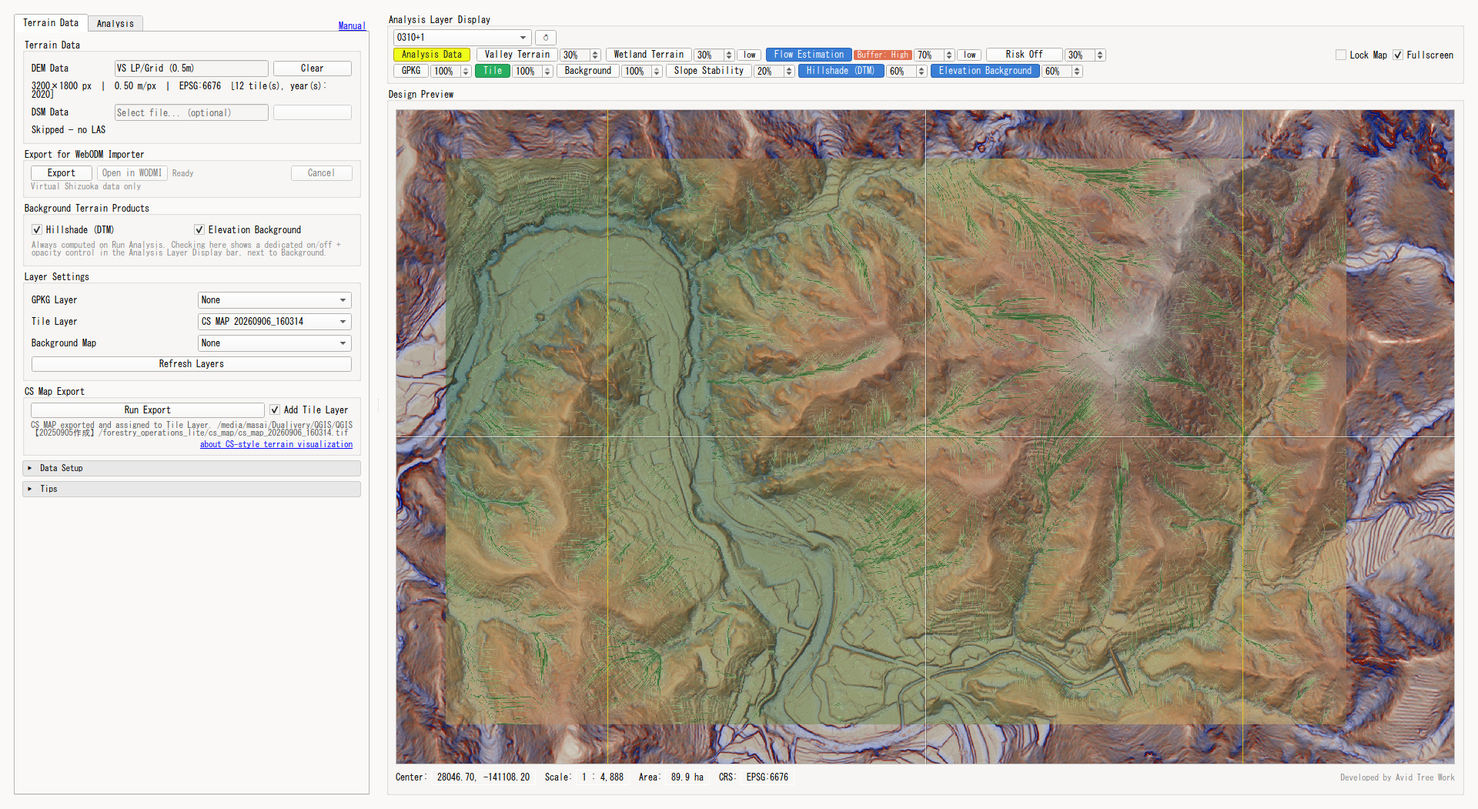
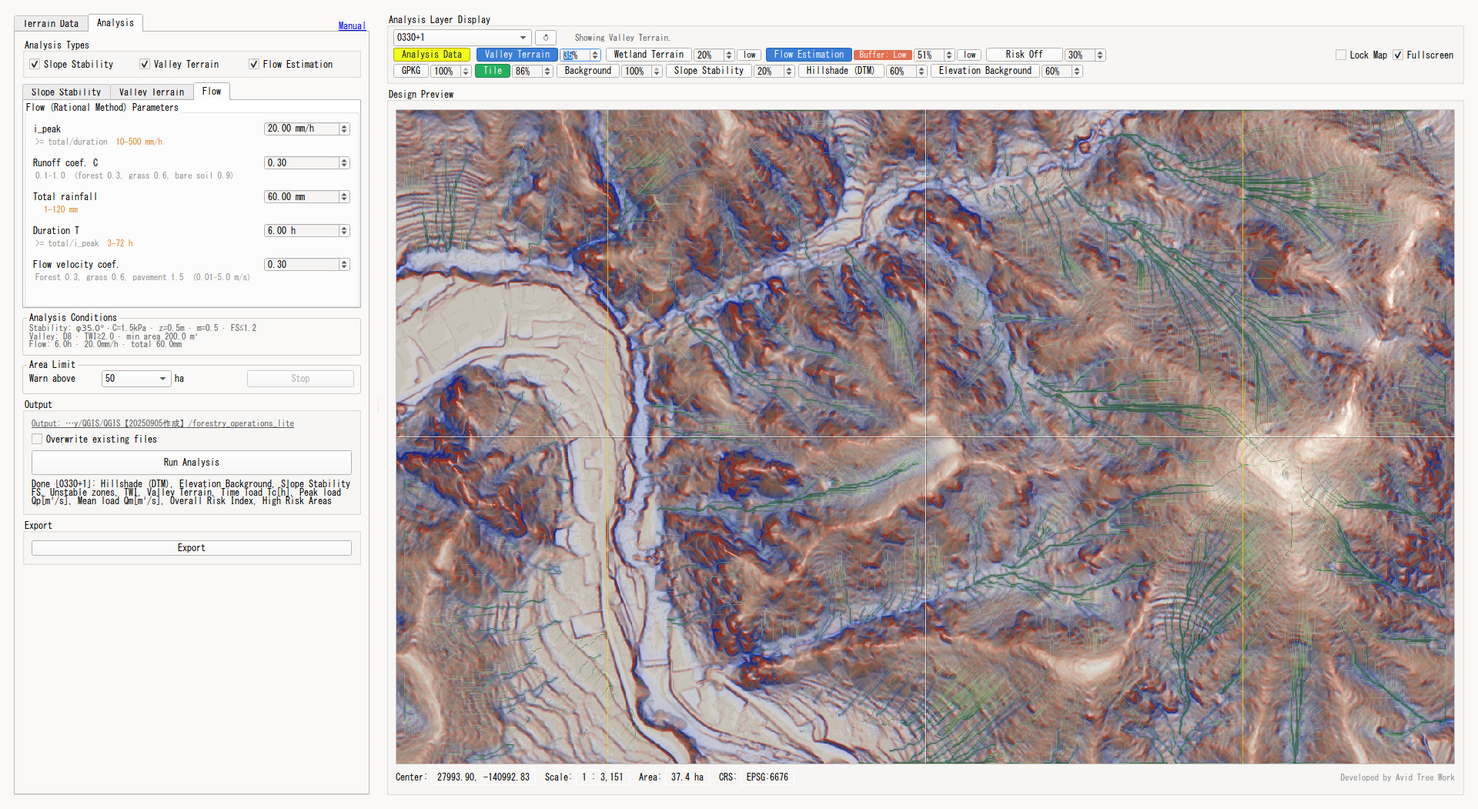
FOL 1.2.1: CS Map location-based naming, embedded metadata, manual updates
- CS Map Export: replace fixed/timestamped output naming with a filename
  derived from the export's rounded center coordinate and area (hashed),
  so exports of different locations never collide or overwrite each other
- Add "Overwrite Same Location" checkbox: controls whether re-exporting the
  same area replaces the previous file or is kept as a separate +N copy
- Rename "Add Tile Layer" checkbox to "Set As Layer"; QGIS layer name now
  matches the actual output file name instead of a synthesized label
- Stop disabling the whole CS Map Export group box while no DEM is loaded,
  so the "about CS-style terrain visualization" link stays usable
- Embed provenance, data-quality, and attribution metadata (GDAL tags) into
  the output GeoTIFF
- Remove unprompted CSMapMaker references from the about dialog and
  cs_map.py docstring
- Update README / FOL.html CS Map Export sections and example captions
  (EN/JA) to match; replace the CS Map example screenshot

diff --git a/data/FOL.html b/data/FOL.html
@@ -403,7 +403,7 @@ USDA NRCS National Engineering Handbook, Part 630.</p>
 <h2>Feature Descriptions</h2>
 
 <h3>CS MAP Export</h3>
-<p><strong>Run Export</strong> under <strong>Terrain Data &gt; CS Map Export</strong> creates a CS-style terrain visualization from the selected DEM. Local DEM files are exported as a whole raster; fetched sources such as VS LP/Grid, GSI DEM, and Terrarium use the currently fetched DEM raster. When <strong>Add Tile Layer</strong> is checked, the exported raster is added to QGIS and selected directly in <strong>Layer Settings &gt; Tile Layer</strong>.</p>
+<p><strong>Run Export</strong> under <strong>Terrain Data &gt; CS Map Export</strong> creates a CS-style terrain visualization from the selected DEM. Local DEM files are exported as a whole raster; fetched sources such as VS LP/Grid, GSI DEM, and Terrarium use the currently fetched DEM raster. The output file name is derived from the exported area's center coordinate and size, so exports of different areas never collide or overwrite one another. When <strong>Overwrite Same Location</strong> is checked (default), re-exporting the same area replaces the previous file for that location; unchecked, each re-export of that same area is kept as a separate file instead. The export is always added to QGIS; when <strong>Set As Layer</strong> is checked, it is also set as the current <strong>Layer Settings &gt; Tile Layer</strong> selection.</p>
 <div class="note">
   <strong>Input data:</strong> a CS-style map only resolves micro-relief that is genuinely present in the DEM, and it assumes a LiDAR-grade ground surface. A photogrammetric DTM (e.g. from WebODM / drone imagery) has low ground-surface accuracy: under forest canopy the ground is largely interpolated between sparse points, so fine structure in the CS map can be an interpolation artifact rather than real terrain. Prefer LiDAR, or open-terrain / leaf-off captures; treat forested photogrammetric results as indicative only.
 </div>
@@ -411,8 +411,8 @@ USDA NRCS National Engineering Handbook, Part 630.</p>
   <strong>Note:</strong> The color balance is tuned for Forestry Operations Lite so analysis layers such as flow, wetness, and terrain features remain easy to interpret.
 </div>
 <div style="margin-top:14px;">
-  <button class="image-zoom" type="button" data-group="cs-map" data-src="cs_style_map_example.jpg" data-caption="CS-style terrain from CS Map Export, assigned to Layer Settings &gt; Tile Layer, with a Flow Estimation layer overlaid in the preview."><img src="cs_style_map_example.jpg" alt="CS-style terrain map with a flow estimation overlay in Forestry Operations Lite"></button>
-  <p style="color:#666; font-size:0.86em; margin:6px 0 0;">Example: CS-style terrain output set as the Tile Layer, with Flow Estimation overlaid. The tuned colour balance keeps the overlay readable against the terrain.</p>
+  <button class="image-zoom" type="button" data-group="cs-map" data-src="cs_style_map_example.jpg" data-caption="CS-style terrain from CS Map Export, set as Layer Settings &gt; Tile Layer, with Valley Terrain and Flow Estimation layers overlaid in the preview."><img src="cs_style_map_example.jpg" alt="CS-style terrain map with Valley Terrain and Flow Estimation overlaid in Forestry Operations Lite"></button>
+  <p style="color:#666; font-size:0.86em; margin:6px 0 0;">Example: CS-style terrain output set as the Tile Layer, with Valley Terrain and Flow Estimation overlaid. The tuned colour balance keeps the overlay readable against the terrain.</p>
 </div>
 <div class="note">
   CS立体図 is a terrain visualization method proposed by Nagano Prefecture Forestry Research Center. The method is described as open, but exported maps also follow the license and attribution requirements of the input DEM.
@@ -775,7 +775,7 @@ USDA NRCS National Engineering Handbook, Part 630。</p>
 <h2>機能説明</h2>
 
 <h3>CS MAP Export</h3>
-<p><strong>Terrain Data &gt; CS Map Export</strong> の <strong>Run Export</strong> で、選択中のDEMからCS系の地形表現ラスタを作成します。ローカルDEMファイルはラスタ全体、VS LP/Grid・GSI DEM・Terrarium などの取得型ソースは現在取得済みのDEMラスタ全体を対象にします。<strong>Add Tile Layer</strong> をオンにすると、出力したラスタをQGISに追加し、<strong>Layer Settings &gt; Tile Layer</strong> に直接設定します。</p>
+<p><strong>Terrain Data &gt; CS Map Export</strong> の <strong>Run Export</strong> で、選択中のDEMからCS系の地形表現ラスタを作成します。ローカルDEMファイルはラスタ全体、VS LP/Grid・GSI DEM・Terrarium などの取得型ソースは現在取得済みのDEMラスタ全体を対象にします。出力ファイル名は書き出し範囲の中心座標と面積から決まるため、別の範囲を書き出しても互いに上書きされることはありません。<strong>Overwrite Same Location</strong>（既定でオン）がオンの場合、同じ範囲を出し直すと該当ファイルを上書きします。オフの場合は同じ範囲の再出力も別ファイルとして残ります。出力は常にQGISへ追加され、<strong>Set As Layer</strong> をオンにすると <strong>Layer Settings &gt; Tile Layer</strong> にも直接設定します。</p>
 <div class="note">
   <strong>入力データについて:</strong> CS系表現図は DEM に実在する微地形しか描けず、LiDAR 級の地表面を前提とします。写真測量由来の DTM（WebODM／ドローン空撮など）は地表面精度が低く、特に林冠下では疎な地表点の間を補間しているだけなので、CS図に出る細かい構造は実地形ではなく補間アーティファクトのことがあります。LiDAR、または開放地・落葉期・十分に管理された撮影を優先し、林内の写真測量結果は参考程度に扱ってください。
 </div>
@@ -783,8 +783,8 @@ USDA NRCS National Engineering Handbook, Part 630。</p>
   <strong>注意:</strong> 本プラグインでは、流量・湿潤・地形特徴などの解析データを判断しやすいよう、CS系地形表現の色味を調整しています。
 </div>
 <div style="margin-top:14px;">
-  <button class="image-zoom" type="button" data-group="cs-map" data-src="cs_style_map_example.jpg" data-caption="CS Map Export で出力したCS系地形を Layer Settings &gt; Tile Layer に設定し、プレビューで Flow Estimation レイヤーを重ねた表示例。"><img src="cs_style_map_example.jpg" alt="Forestry Operations Lite でCS系地形に流量解析を重ねた表示例"></button>
-  <p style="color:#666; font-size:0.86em; margin:6px 0 0;">表示例：CS系地形の出力を Tile Layer に設定し、Flow Estimation を重ねた状態。調整済みの色味により、地形の上でも重ねた解析レイヤーが読み取りやすい。</p>
+  <button class="image-zoom" type="button" data-group="cs-map" data-src="cs_style_map_example.jpg" data-caption="CS Map Export で出力したCS系地形を Layer Settings &gt; Tile Layer に設定し、プレビューで Valley TerrainとFlow Estimation レイヤーを重ねた表示例。"><img src="cs_style_map_example.jpg" alt="Forestry Operations Lite でCS系地形に流量解析を重ねた表示例"></button>
+  <p style="color:#666; font-size:0.86em; margin:6px 0 0;">表示例：CS系地形の出力を Tile Layer に設定し、Valley Terrain、Flow Estimation を重ねた状態。調整済みの色味により、地形の上でも重ねた解析レイヤーが読み取りやすい。</p>
 </div>
 <div class="note">
   CS立体図は長野県林業総合センターが考案した地形表現図法です。図法自体はオープンと説明されていますが、出力した地図の利用条件は入力DEMのライセンス・出典表示条件にも従います。

diff --git a/forestry_operations_lite_dockwidget.py b/forestry_operations_lite_dockwidget.py
@@ -1521,26 +1521,29 @@ class ForestryOperationsLiteDockWidget(QtWidgets.QWidget, FORM_CLASS):
         cs_export_layout = QtWidgets.QVBoxLayout(self.grpCsMapExport)
         cs_export_layout.setContentsMargins(8, 4, 8, 6)
         cs_export_layout.setSpacing(4)
-        cs_row = QtWidgets.QHBoxLayout()
-        cs_row.setSpacing(6)
         self.btnCsMapExport = QtWidgets.QPushButton("Run Export")
         self.btnCsMapExport.setToolTip("Load DEM to enable CS MAP export")
-        self.chkCsMapAddTile = QtWidgets.QCheckBox("Add Tile Layer")
+        cs_export_layout.addWidget(self.btnCsMapExport)
+        cs_opt_row = QtWidgets.QHBoxLayout()
+        cs_opt_row.setSpacing(6)
+        self.chkCsMapAddTile = QtWidgets.QCheckBox("Set As Layer")
         self.chkCsMapAddTile.setChecked(True)
         self.chkCsMapAddTile.setToolTip(
-            "Add the exported CS MAP to QGIS and select it in Layer Settings > Tile Layer"
+            "Replace the current Layer Settings > Tile Layer selection with "
+            "this export and show it immediately. The export is added to "
+            "QGIS either way; this only controls the Tile Layer slot."
         )
-        self.btnCsMapExport.setSizePolicy(
-            QtWidgets.QSizePolicy.Policy.Expanding,
-            QtWidgets.QSizePolicy.Policy.Fixed,
+        self.chkCsMapOverwriteSameLoc = QtWidgets.QCheckBox("Overwrite Same Location")
+        self.chkCsMapOverwriteSameLoc.setChecked(True)
+        self.chkCsMapOverwriteSameLoc.setToolTip(
+            "Re-exporting the same area/extent replaces the previous CS MAP "
+            "file for that location. Unchecked, each re-export of that same "
+            "location is kept as a separate file instead. Exports covering "
+            "a different area are never affected either way."
         )
-        self.chkCsMapAddTile.setSizePolicy(
-            QtWidgets.QSizePolicy.Policy.Expanding,
-            QtWidgets.QSizePolicy.Policy.Fixed,
-        )
-        cs_row.addWidget(self.btnCsMapExport, 4)
-        cs_row.addWidget(self.chkCsMapAddTile, 1)
-        cs_export_layout.addLayout(cs_row)
+        cs_opt_row.addWidget(self.chkCsMapAddTile)
+        cs_opt_row.addWidget(self.chkCsMapOverwriteSameLoc)
+        cs_export_layout.addLayout(cs_opt_row)
         self.progressCsMapExport = QtWidgets.QProgressBar()
         self.progressCsMapExport.setRange(0, 0)
         self.progressCsMapExport.setVisible(False)
@@ -5643,9 +5646,12 @@ class ForestryOperationsLiteDockWidget(QtWidgets.QWidget, FORM_CLASS):
         has_dem = self._has_cs_map_dem()
         busy = bool(getattr(self, "_cs_map_exporting", False))
         can_export = has_dem and not busy
-        self.grpCsMapExport.setEnabled(has_dem or busy)
+        # grpCsMapExport 自体は無効化しない: グループを無効化すると
+        # lblCsMapAbout の「about」リンクまで操作不能になり、DEM未読込時に
+        # 説明を読めなくなる。DEMを要する個別コントロールだけを無効化する。
         self.btnCsMapExport.setEnabled(can_export)
         self.chkCsMapAddTile.setEnabled(can_export)
+        self.chkCsMapOverwriteSameLoc.setEnabled(can_export)
         if busy:
             self.btnCsMapExport.setToolTip("CS MAP export is running")
             return
@@ -5666,9 +5672,7 @@ class ForestryOperationsLiteDockWidget(QtWidgets.QWidget, FORM_CLASS):
             "CS topographic visualization was proposed by the Nagano Prefecture\n"
             "Forestry Research Center.\n\n"
             "This feature is an independent FOL implementation inspired by\n"
-            "that concept.\n\n"
-            "It does not use CSMapMaker code, configuration files,\n"
-            "color tables, or image tiles.",
+            "that concept.",
         )
 
     def _on_vs_export(self):
@@ -6086,8 +6090,101 @@ class ForestryOperationsLiteDockWidget(QtWidgets.QWidget, FORM_CLASS):
             loader = _resample_dem(loader, _RESAMPLE_TARGET)
         return loader
 
+    @staticmethod
+    def _cs_map_center_and_area(dem):
+        """DEM範囲の中心座標(WGS84, 丸めなし)と面積(ha)を返す。"""
+        rows, cols = dem.data.shape
+        xmin = dem.gt[0]
+        xmax = dem.gt[0] + dem.gt[1] * cols
+        ymax = dem.gt[3]
+        ymin = dem.gt[3] + dem.gt[5] * rows
+        cx, cy = (xmin + xmax) / 2.0, (ymin + ymax) / 2.0
+
+        lon, lat = cx, cy
+        try:
+            src_crs = QgsCoordinateReferenceSystem()
+            src_crs.createFromWkt(dem.crs_wkt)
+            wgs84 = QgsCoordinateReferenceSystem("EPSG:4326")
+            if src_crs.isValid() and src_crs != wgs84:
+                xf = QgsCoordinateTransform(src_crs, wgs84, QgsProject.instance())
+                pt = xf.transform(QgsPointXY(cx, cy))
+                lon, lat = pt.x(), pt.y()
+        except Exception:  # nosec B110
+            pass
+
+        area_ha = rows * cols * (dem.cell_size ** 2) / 10000.0
+        return lat, lon, area_ha
+
+    def _cs_map_location_key(self, lat, lon, area_ha):
+        """中心座標(WGS84)と面積(ha)を丸めてハッシュ化した識別子(8桁16進)を返す。
+        同じ場所への再エクスポートは同じキーになり、別の場所とは衝突しない。"""
+        lat_r = round(lat / 0.0005) * 0.0005
+        lon_r = round(lon / 0.0005) * 0.0005
+        area_r = self._round_sig(area_ha, 2)
+        key = f"{lat_r:.4f}_{lon_r:.4f}_{area_r:g}"
+        import hashlib
+        return hashlib.sha256(key.encode("utf-8")).hexdigest()[:8]
+
+    @staticmethod
+    def _round_sig(value, sig=2):
+        """有効数字sig桁に丸める（0以下はそのまま0.0を返す）。"""
+        if value <= 0:
+            return 0.0
+        from math import floor, log10
+        d = sig - int(floor(log10(abs(value)))) - 1
+        return round(value, max(d, 0))
+
+    @staticmethod
+    def _plugin_version():
+        import configparser
+        cfg = configparser.ConfigParser()
+        cfg.read(os.path.join(os.path.dirname(__file__), "metadata.txt"))
+        return cfg.get("general", "version", fallback="")
+
+    def _write_cs_map_metadata(self, path, dem, lat, lon, area_ha):
+        """成果物としてのCS MAP GeoTIFFに来歴・データ品質・帰属のメタデータを埋め込む。
+        失敗してもラスタ本体は既に書き出し済みのため、ここでは無視して続行する。"""
+        try:
+            from osgeo import gdal
+            from datetime import datetime
+
+            source_path = (getattr(self, "_cs_map_dem_path", "")
+                            or getattr(self, "_dem_path", "") or "")
+            tags = {
+                "GENERATED_AT": datetime.now().astimezone().isoformat(timespec="seconds"),
+                "PLUGIN": f"Forestry Operations Lite {self._plugin_version()}",
+                "DEM_SOURCE_PATH": source_path,
+                "DEM_CELL_SIZE_M": f"{dem.cell_size:.2f}",
+                "CENTER_LAT": f"{lat:.6f}",
+                "CENTER_LON": f"{lon:.6f}",
+                "AREA_HA": f"{area_ha:.2f}",
+                "DATA_NOTE": (
+                    "Assumes a LiDAR-grade DEM. Photogrammetric (e.g. WebODM) DTM "
+                    "has low ground-surface accuracy, especially under canopy; "
+                    "prefer open-terrain or leaf-off captures."
+                ),
+                "METHOD_ATTRIBUTION": (
+                    "CS-style terrain visualization method proposed by Nagano "
+                    "Prefecture Forestry Research Center."
+                ),
+                "LICENSE_NOTE": (
+                    "Licensing and attribution requirements of this output "
+                    "depend on the input DEM source."
+                ),
+            }
+            ds = gdal.Open(path, gdal.GA_Update)
+            if ds is not None:
+                for key, value in tags.items():
+                    ds.SetMetadataItem(key, value)
+                ds.FlushCache()
+            ds = None
+        except Exception:  # nosec B110
+            pass
+
     def _on_cs_map_export_clicked(self):
-        """設定済みDEM全体からCS MAPをGeoTIFF出力し、QGISレイヤーに追加する。"""
+        """設定済みDEM全体からCS MAPをGeoTIFF出力し、QGISレイヤーに追加する。
+        出力ファイル名は中心座標・面積から求めた識別子で決まるため、同じ場所を
+        再エクスポートしても別の場所のCS MAPを巻き込んで上書きすることはない。"""
         self._cs_map_exporting = True
         self._update_cs_map_export_state()
         self.lblCsMapExportStatus.setText("Preparing DEM...")
@@ -6103,7 +6200,6 @@ class ForestryOperationsLiteDockWidget(QtWidgets.QWidget, FORM_CLASS):
             import importlib
             from .terrain import cs_map as cm
             from .terrain import result_writer as rw
-            from datetime import datetime
 
             cm = importlib.reload(cm)
             rw = importlib.reload(rw)
@@ -6114,25 +6210,38 @@ class ForestryOperationsLiteDockWidget(QtWidgets.QWidget, FORM_CLASS):
             rgba = cm.compute_cs_map(dem.data, dem.cell_size)
 
             export_dir = os.path.join(self._terrain_output_dir(), "cs_map")
-            name = "cs_map" if self.chkOverwrite.isChecked() else (
-                "cs_map_" + datetime.now().strftime("%Y%m%d_%H%M%S")
-            )
+            os.makedirs(export_dir, exist_ok=True)
+            lat, lon, area_ha = self._cs_map_center_and_area(dem)
+            loc_hash = self._cs_map_location_key(lat, lon, area_ha)
+            base_name = f"cs_map_{loc_hash}"
+            base_path = os.path.join(export_dir, f"{base_name}.tif")
+
+            replacing = False
+            if os.path.exists(base_path):
+                if self.chkCsMapOverwriteSameLoc.isChecked():
+                    name = base_name
+                    replacing = True
+                else:
+                    n = 1
+                    while os.path.exists(os.path.join(export_dir, f"{base_name}+{n}.tif")):
+                        n += 1
+                    name = f"{base_name}+{n}"
+            else:
+                name = base_name
+
             out_path = os.path.join(export_dir, f"{name}.tif")
-            if self.chkOverwrite.isChecked():
+            if replacing:
                 self._remove_layers_for_source_path(out_path)
             path = rw.save_rgba_raster(
                 rgba, dem.gt, dem.crs_wkt, export_dir, name, overwrite=True
             )
             if not os.path.exists(path) or os.path.getsize(path) <= 0:
                 raise RuntimeError(f"CS MAP file was not written: {path}")
+            self._write_cs_map_metadata(path, dem, lat, lon, area_ha)
             self.progressCsMapExport.setValue(75)
             QtWidgets.QApplication.processEvents()
 
-            layer_name = "CS MAP"
-            if not self.chkOverwrite.isChecked():
-                stamp = os.path.basename(path).removeprefix("cs_map_").removesuffix(".tif")
-                layer_name = f"CS MAP {stamp}"
-            lyr = QgsRasterLayer(path, layer_name)
+            lyr = QgsRasterLayer(path, os.path.basename(path))
             if not lyr.isValid():
                 self.lblCsMapExportStatus.setText(
                     f"CS MAP exported, but layer load failed: {path}"
@@ -6155,9 +6264,11 @@ class ForestryOperationsLiteDockWidget(QtWidgets.QWidget, FORM_CLASS):
                 self.btnTileLayerVis.setChecked(True)
                 self._save_layer_settings_to_project()
                 self.apply_layer_display()
-                msg = "CS MAP exported and assigned to Tile Layer."
+                msg = "CS MAP exported and set as Tile Layer."
             else:
                 msg = "CS MAP exported and added to QGIS layers."
+            if replacing:
+                msg = "Existing CS MAP for this location was replaced. " + msg
             self.progressCsMapExport.setValue(100)
             self.lblCsMapExportStatus.setText(f"{msg} {path}")
         except Exception as exc:
@@ -7141,6 +7252,7 @@ class ForestryOperationsLiteDockWidget(QtWidgets.QWidget, FORM_CLASS):
         s.setValue("filter_state_flow_tc", self._filter_state_tc)
         s.setValue("chk_overwrite",       self.chkOverwrite.isChecked())
         s.setValue("chk_cs_map_add_tile", self.chkCsMapAddTile.isChecked())
+        s.setValue("chk_cs_map_overwrite_same_loc", self.chkCsMapOverwriteSameLoc.isChecked())
         s.setValue("chk_stability",       self.chkStability.isChecked())
         s.setValue("chk_valley",          self.chkValley.isChecked())
         s.setValue("chk_flow",            self.chkFlow.isChecked())
@@ -7370,6 +7482,7 @@ class ForestryOperationsLiteDockWidget(QtWidgets.QWidget, FORM_CLASS):
         self._sync_flow_aux_controls()
         self.chkOverwrite.setChecked(    b("chk_overwrite",   True))
         self.chkCsMapAddTile.setChecked(b("chk_cs_map_add_tile", True))
+        self.chkCsMapOverwriteSameLoc.setChecked(b("chk_cs_map_overwrite_same_loc", True))
         self.chkStability.setChecked(    b("chk_stability",   True))
         self.chkValley.setChecked(       b("chk_valley",      True))
         self.chkFlow.setChecked(         b("chk_flow",        False))

diff --git a/terrain/cs_map.py b/terrain/cs_map.py
@@ -1,8 +1,7 @@
 """CS MAP export raster synthesis.
 
-This module implements an original CS-style terrain visualization for FOL.
-It uses the plugin's DEM-derived slope and curvature arrays, and does not
-reuse CSMapMaker code, layer files, or bundled assets.
+This module implements an original CS-style terrain visualization for FOL,
+using the plugin's DEM-derived slope and curvature arrays.
 """
 import numpy as np
 

diff --git a/README.md b/README.md
@@ -24,11 +24,11 @@ A QGIS plugin for terrain analysis supporting forestry site assessment.
 
 ## CS MAP Export
 
-Use **Run Export** under **Terrain Data > CS Map Export** to create a CS-style terrain map from the selected DEM. Local DEM files are exported as a whole raster; fetched sources such as VS LP/Grid, GSI DEM, and Terrarium use the currently fetched DEM raster. When **Add Tile Layer** is checked, the exported raster is added to QGIS and selected directly in **Layer Settings > Tile Layer** so it appears in the preview as a base terrain layer.
+Use **Run Export** under **Terrain Data > CS Map Export** to create a CS-style terrain map from the selected DEM. Local DEM files are exported as a whole raster; fetched sources such as VS LP/Grid, GSI DEM, and Terrarium use the currently fetched DEM raster. The output file name is derived from the exported area's center coordinate and size, so exports of different areas never collide or overwrite one another. When **Overwrite Same Location** is checked (default), re-exporting the same area replaces the previous file for that location; unchecked, each re-export of that same area is kept as a separate file instead. The export is always added to QGIS; when **Set As Layer** is checked, it is also set as the current **Layer Settings > Tile Layer** selection so it appears in the preview as a base terrain layer.
 
 > **Note:** The color balance is tuned for Forestry Operations Lite so analysis layers such as flow, wetness, and terrain features remain easy to interpret.
 
-![CS-style terrain visualization with flow estimation overlay](cs_style_map_example.jpg)
+![CS-style terrain visualization with Valley Terrain and Flow Estimation overlaid](cs_style_map_example.jpg)
 
 The CS立体図 method was proposed by Nagano Prefecture Forestry Research Center. The method is described as open, but exported maps also depend on the license and attribution requirements of the input DEM.
 
@@ -233,11 +233,11 @@ https://paypal.me/rawslnc
 
 ## CS MAP Export
 
-**Terrain Data > CS Map Export** の **Run Export** で、選択中のDEMからCS系の地形表現ラスタを作成します。ローカルDEMファイルはラスタ全体、VS LP/Grid・GSI DEM・Terrarium などの取得型ソースは現在取得済みのDEMラスタ全体を対象にします。**Add Tile Layer** をオンにすると、出力したラスタをQGISへ追加し、**Layer Settings > Tile Layer** に直接設定します。
+**Terrain Data > CS Map Export** の **Run Export** で、選択中のDEMからCS系の地形表現ラスタを作成します。ローカルDEMファイルはラスタ全体、VS LP/Grid・GSI DEM・Terrarium などの取得型ソースは現在取得済みのDEMラスタ全体を対象にします。出力ファイル名は書き出し範囲の中心座標と面積から決まるため、別の範囲を書き出しても互いに上書きされることはありません。**Overwrite Same Location**（既定でオン）がオンの場合、同じ範囲を出し直すと該当ファイルを上書きします。オフの場合は同じ範囲の再出力も別ファイルとして残ります。出力は常にQGISへ追加され、**Set As Layer** をオンにすると **Layer Settings > Tile Layer** にも直接設定します。
 
 > **注意:** 本プラグインでは、流量・湿潤・地形特徴などの解析データを判断しやすいよう、CS系地形表現の色味を調整しています。
 
-![CS系地形表現に流量解析を重ねた表示例](cs_style_map_example.jpg)
+![CS系地形表現にValley TerrainとFlow Estimationを重ねた表示例](cs_style_map_example.jpg)
 
 CS立体図は長野県林業総合センターが考案した地形表現図法です。図法自体はオープンと説明されていますが、出力した地図の利用条件は入力DEMのライセンス・出典表示条件にも従います。
 
